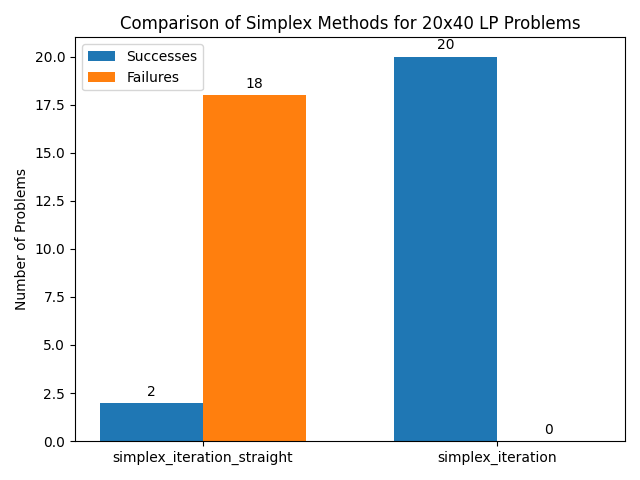
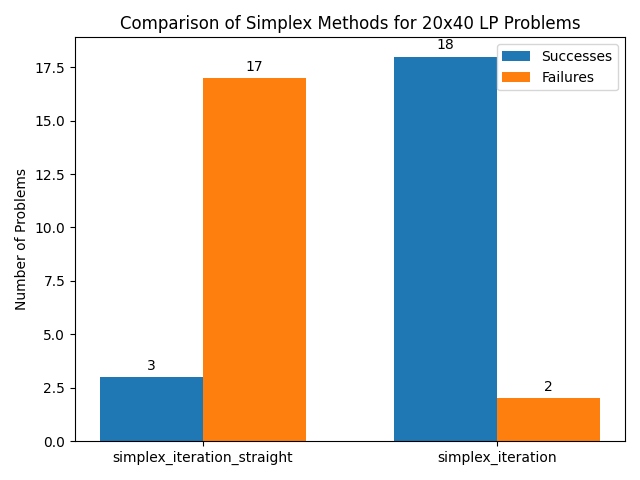
更新结果绘图标签以反映LU分解求解器的使用

diff --git a/test_lu.py b/test_lu.py
@@ -7,6 +7,9 @@ from test import generate_solvable_lp_linprog
 
 
 def test_simplex_methods(sizes, num_tests=20):
+    """
+    Test the simplex_iteration_straight and simplex_iteration_lu functions on LP problems of various sizes.
+    """
     results = []
 
     for m, n in sizes:
@@ -43,7 +46,7 @@ def test_simplex_methods(sizes, num_tests=20):
 
 def plot_results(size, success_straight, success_lu, num_tests):
     m, n = size
-    labels = ['simplex_iteration_straight', 'simplex_iteration']
+    labels = ['simplex_iteration_straight', 'simplex_iteration_lu']
     successes = [success_straight, success_lu]
     failures = [num_tests - success_straight, num_tests - success_lu]
 
